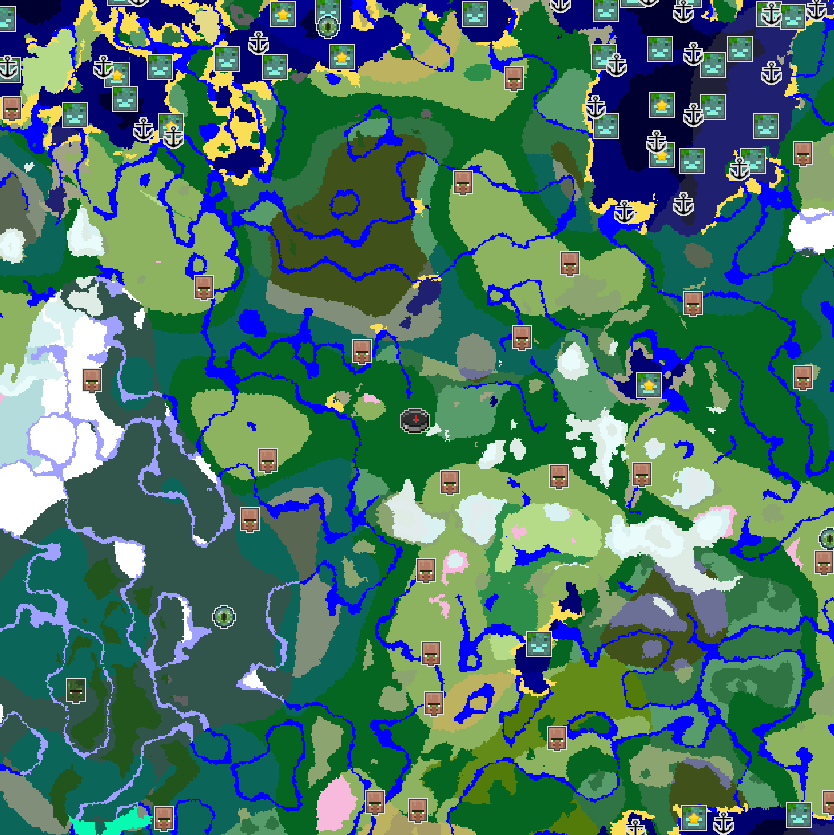
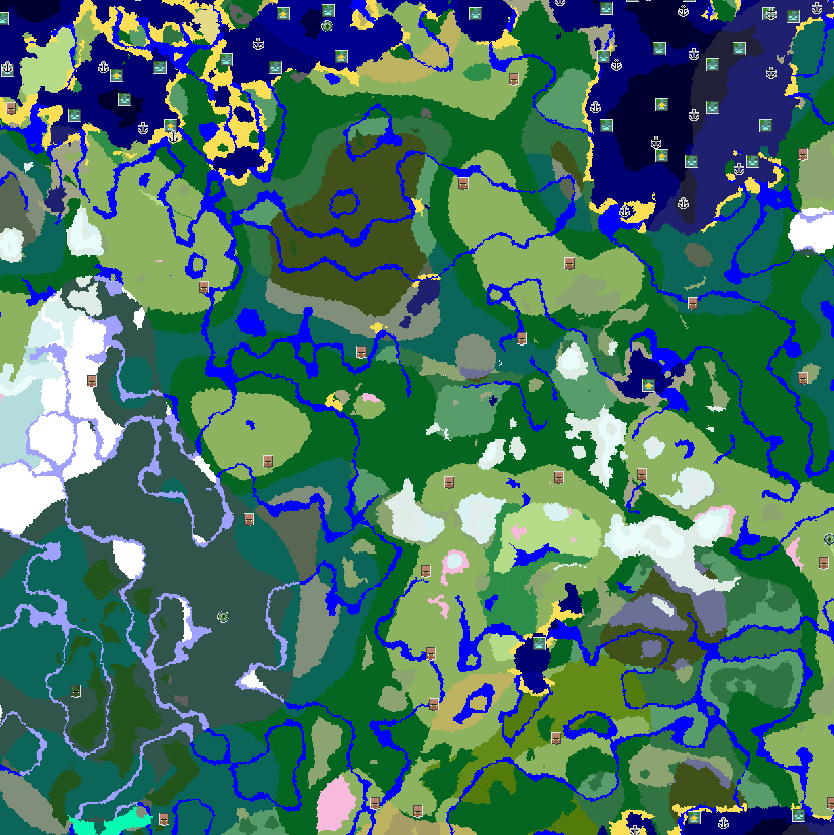
finishing the triangulator

diff --git a/minecraftTriangulateCompassVisualized/index.html b/minecraftTriangulateCompassVisualized/index.html
@@ -85,7 +85,7 @@
             width: 100%;
             margin-top: 10px;
         }
-        .median-panel {
+        .median-panel, .description-panel {
             background-color: #2d3748;
             border: 1px solid #4a5568;
             border-radius: 8px;
@@ -96,20 +96,36 @@
             box-shadow: 0 4px 8px rgba(0, 0, 0, 0.3);
             text-align: center;
         }
-        .median-panel h3 {
+        .median-panel h3, .description-panel h3 {
             color: #feebc8;
             font-size: 1.2em;
             margin-bottom: 8px;
         }
-        .median-panel p {
+        .median-panel p, .description-panel p {
             font-size: 1.1em;
             font-weight: bold;
             color: #e2e8f0;
         }
+        .toggle-button {
+            background-color: #63b3ed;
+            color: white;
+            padding: 8px 12px;
+            border-radius: 6px;
+            font-weight: bold;
+            cursor: pointer;
+            transition: background-color 0.2s;
+            margin: 5px;
+        }
+        .toggle-button.active {
+            background-color: #38a169; /* Green when active */
+        }
+        .toggle-button:hover {
+            background-color: #4299e1;
+        }
     </style>
 </head>
 <body class="bg-gray-900 text-gray-100 flex flex-col items-center p-5">
-    <h1 class="text-3xl font-bold mb-6 text-blue-400">Minecraft XZ Ray Intersection Visualizer</h1>
+    <h1 class="text-3xl font-bold mb-6 text-blue-400">Minecraft Simple XZ Triangulation</h1>
 
     <canvas id="rayCanvas" width="800" height="600" class="mb-6"></canvas>
 
@@ -127,11 +143,28 @@
                 Reset Records
             </button>
         </div>
+        <div class="button-row mt-4">
+            <button id="toggleMapButton" class="toggle-button">
+                Toggle Map: On
+            </button>
+            <button id="toggleCompassAdjustmentButton" class="toggle-button">
+                Using a Compass: On
+            </button>
+        </div>
     </div>
 
     <div id="medianPanel" class="median-panel hidden">
         <h3>Geometric Median of Intersections:</h3>
         <p id="medianCoordinates">No median calculated.</p>
+    </div>
+
+    <div class="description-panel">
+        <h3>Description:</h3>
+        <p class="text-sm text-gray-300 text-left">
+            This tool is made for triangulation based on your position and angle of view. You manually enter X Z and angle from the F3 screen or you can press F3+C and insert the result here.
+            <br><br>
+            If you're using a compass angle yourself so the compass is just between showing straight ahead and a bit to the left. Like, right on the edge of it switching from one to another, you need to be accurate with it. And make sure the "Using a Compass" button is toggled on.
+        </p>
     </div>
 
     <script>
@@ -151,7 +184,6 @@
 
         /**
          * Helper function to convert degrees to radians.
-         * Use this if your input angles are in degrees.
          * @param {number} degrees Angle in degrees.
          * @returns {number} Angle in radians.
          */
@@ -423,11 +455,16 @@
 
         const canvas = document.getElementById('rayCanvas');
         const ctx = canvas.getContext('2d');
+        // Disable image smoothing for pixelated zoom
+        ctx.imageSmoothingEnabled = false;
+
         const recordInputTextarea = document.getElementById('recordInputTextarea');
         const drawButton = document.getElementById('drawButton');
         const resetButton = document.getElementById('resetButton');
         const medianPanel = document.getElementById('medianPanel');
         const medianCoordinatesText = document.getElementById('medianCoordinates');
+        const toggleMapButton = document.getElementById('toggleMapButton');
+        const toggleCompassAdjustmentButton = document.getElementById('toggleCompassAdjustmentButton');
 
         // Global variables for canvas transformation
         let currentScale = 1;
@@ -435,10 +472,28 @@
         let currentOffsetY = 0;
         const MIN_SCALE = 0.01;
         const ZOOM_SENSITIVITY = 0.1; // How much zoom per scroll tick
+        const ANGLE_ERROR_TOLERANCE = 0.1; // Degrees of possible error in angle measurements
 
         let isDragging = false;
         let lastMouseX = 0;
         let lastMouseY = 0;
+
+        // Toggle states
+        let showMap = true; // Default to showing map
+        let useCompassAdjustment = true; // Default to using compass adjustment
+
+        // Map image setup
+        const mapImage = new Image();
+        mapImage.src = 'chunkbase_4840887614380714799.png';
+        mapImage.onerror = () => {
+            console.error("Failed to load map image. Please ensure 'chunkbase_4840887614380714799.png' is accessible.");
+            // Optionally, display a message on the canvas or in a UI element
+            // ctx.fillText('Map image failed to load.', canvas.width / 2, canvas.height / 2 + 50);
+        };
+        mapImage.onload = () => {
+            // Redraw the visualization once the map image is loaded
+            drawVisualization();
+        };
 
         // Function to transform world coordinates to canvas coordinates
         function worldToCanvas(worldX, worldZ) {
@@ -490,18 +545,18 @@
                         }
                     } else {
                         console.warn(`Skipping unrecognized line format: "${line}"`);
-                        return; // Skip this line
+                            return; // Skip this line
                     }
                 }
 
-                // Apply the 5.6 degrees adjustment to the angle
-                const adjustedAngleDegrees = angleDegrees - 5.6;
+                // Apply the 5.6 degrees adjustment to the angle, if enabled
+                const finalAngleDegrees = useCompassAdjustment ? (angleDegrees - 5.6) : angleDegrees;
 
                 currentRecords.push({
                     id: `Record ${recordIdCounter++}`, // Auto-generate ID (used internally, not displayed)
                     x: x,
                     z: z,
-                    angle: degreesToRadians(adjustedAngleDegrees) // Convert adjusted degrees to radians
+                    angle: degreesToRadians(finalAngleDegrees) // Convert adjusted degrees to radians
                 });
             });
             return currentRecords;
@@ -580,6 +635,31 @@
                 currentOffsetY = initialOffsetY;
             }
 
+            // --- Draw Map Image (under everything else) ---
+            if (showMap && mapImage.complete && mapImage.naturalWidth > 0) {
+                const mapWorldSize = 5000; // Map is 5000x5000 world units
+                const mapWorldHalf = mapWorldSize / 2;
+
+                // World coordinates of the top-left corner of the map
+                // Center is 0,0, so top-left is (-mapHalf, -mapHalf)
+                const mapWorldTopLeftX = -mapWorldHalf;
+                const mapWorldTopLeftZ = -mapWorldHalf;
+
+                const mapCanvasStart = worldToCanvas(mapWorldTopLeftX, mapWorldTopLeftZ);
+
+                // Calculate the width and height of the image on the canvas based on current scale
+                const mapCanvasWidth = mapWorldSize * currentScale;
+                const mapCanvasHeight = mapWorldSize * currentScale;
+
+                ctx.drawImage(mapImage, mapCanvasStart.x, mapCanvasStart.y, mapCanvasWidth, mapCanvasHeight);
+            } else if (showMap) {
+                // Fallback for when image is not loaded or has errors, but map is supposed to be shown
+                ctx.fillStyle = '#a0aec0';
+                ctx.font = '16px Inter';
+                ctx.textAlign = 'center';
+                ctx.fillText('Loading map...', canvas.width / 2, canvas.height / 2 + 50);
+            }
+
 
             // Draw Grid (optional, but helpful for context)
             ctx.strokeStyle = '#4a5568'; // Darker gray for grid
@@ -605,7 +685,7 @@
                 ctx.stroke();
             }
 
-            // Draw X and Z axes (positive directions) - DRAW FIRST for layering
+            // Draw X and Z axes (positive directions)
             const originCanvas = worldToCanvas(0, 0);
 
             // Draw Positive X-axis (Red)
@@ -656,6 +736,34 @@
                 ctx.strokeStyle = '#a0aec0'; // Light gray for rays
                 ctx.lineWidth = 1.5;
                 ctx.stroke(); // Solid line
+
+                // Draw angle inaccuracy triangle
+                const errorAngleRadians = degreesToRadians(ANGLE_ERROR_TOLERANCE);
+                const angleMinusError = record.angle - errorAngleRadians;
+                const anglePlusError = record.angle + errorAngleRadians;
+
+                const dxError1 = -Math.sin(angleMinusError);
+                const dzError1 = Math.cos(angleMinusError);
+                const dxError2 = -Math.sin(anglePlusError);
+                const dzError2 = Math.cos(anglePlusError);
+
+                // Extend the error rays for the same length as the main rays
+                const errorPoint1X = record.x + dxError1 * rayLength; // Use rayLength
+                const errorPoint1Z = record.z + dzError1 * rayLength; // Use rayLength
+                const errorPoint2X = record.x + dxError2 * rayLength; // Use rayLength
+                const errorPoint2Z = record.z + dzError2 * rayLength; // Use rayLength
+
+                const canvasErrorPoint1 = worldToCanvas(errorPoint1X, errorPoint1Z);
+                const canvasErrorPoint2 = worldToCanvas(errorPoint2X, errorPoint2Z);
+
+                ctx.beginPath();
+                ctx.moveTo(canvasPos.x, canvasPos.y); // Start at the record's position
+                ctx.lineTo(canvasErrorPoint1.x, canvasErrorPoint1.y);
+                ctx.lineTo(canvasErrorPoint2.x, canvasErrorPoint2.y);
+                ctx.closePath();
+                ctx.fillStyle = 'rgba(255, 255, 0, 0.1)'; // Semi-transparent yellow
+                ctx.fill();
+                // Removed ctx.strokeStyle and ctx.lineWidth for the outline
             });
 
             // Draw Intersections
@@ -718,6 +826,8 @@
         // Function to save textarea content to localStorage
         function saveInputToLocalStorage() {
             localStorage.setItem('minecraftRayVizInput', recordInputTextarea.value);
+            localStorage.setItem('minecraftRayVizShowMap', showMap);
+            localStorage.setItem('minecraftRayVizUseCompassAdjustment', useCompassAdjustment);
         }
 
         // Function to load textarea content from localStorage
@@ -727,28 +837,104 @@
                 recordInputTextarea.value = savedInput;
             } else {
                 // Set initial content if nothing is in localStorage
-                recordInputTextarea.value = `0 1 185.6
-1 0 95.6
--5 0 275.6
-0 -5 5.6
-/execute in minecraft:overworld run tp @s 380.74 -60.00 4772.29 -904.37 25.73`;
+                resetDefaultRecords();
+            }
+
+            const savedShowMap = localStorage.getItem('minecraftRayVizShowMap');
+            if (savedShowMap !== null) {
+                showMap = (savedShowMap === 'true');
+            }
+            updateToggleButtonState(toggleMapButton, showMap, 'Map');
+
+            const savedUseCompassAdjustment = localStorage.getItem('minecraftRayVizUseCompassAdjustment');
+            if (savedUseCompassAdjustment !== null) {
+                useCompassAdjustment = (savedUseCompassAdjustment === 'true');
+            }
+            updateToggleButtonState(toggleCompassAdjustmentButton, useCompassAdjustment, 'Using a Compass');
+        }
+
+        // Helper to get Minecraft angle (degrees) from player (px, pz) to target (tx, tz)
+        const getAngleToTarget = (px, pz, tx, tz) => {
+            const vx = tx - px; // vector X component
+            const vz = tz - pz; // vector Z component
+            // Angle in radians clockwise from positive Z-axis
+            let angleRadians = Math.atan2(-vx, vz); // -vx for sine, vz for cosine
+            let angleDegrees = angleRadians * 180 / Math.PI;
+            // Normalize to 0-360 range
+            if (angleDegrees < 0) {
+                angleDegrees += 360;
+            }
+            return angleDegrees;
+        };
+
+        // Function to set default records with randomization
+        function resetDefaultRecords() {
+            const defaultDistance = 100; // Roughly 100 units from center
+            // Randomization within +/- 2 degrees
+            const randomAngleOffset = () => (Math.random() - 0.5) * 4;
+
+            // Calculate angles for each point to look at (0,0)
+            // The 5.6 adjustment needs to be added to the calculated angle to get the input string value
+            // because the parsing function SUBTRACTS 5.6.
+
+            const angle0_100_to_origin = getAngleToTarget(0, defaultDistance, 0, 0);
+            const angle100_0_to_origin = getAngleToTarget(defaultDistance, 0, 0, 0);
+            const angle0_minus100_to_origin = getAngleToTarget(0, -defaultDistance, 0, 0);
+            const angle_minus100_0_to_origin = getAngleToTarget(-defaultDistance, 0, 0, 0);
+
+            const x_tp = defaultDistance * 0.7;
+            const z_tp = defaultDistance * 0.7;
+            const angleTp_to_origin = getAngleToTarget(x_tp, z_tp, 0, 0);
+
+
+            recordInputTextarea.value = `0 ${defaultDistance} ${(angle0_100_to_origin + randomAngleOffset() + 5.6).toFixed(2)}
+${defaultDistance} 0 ${(angle100_0_to_origin + randomAngleOffset() + 5.6).toFixed(2)}
+0 ${-defaultDistance} ${(angle0_minus100_to_origin + randomAngleOffset() + 5.6).toFixed(2)}
+${-defaultDistance} 0 ${(angle_minus100_0_to_origin + randomAngleOffset() + 5.6).toFixed(2)}
+/execute in minecraft:overworld run tp @s ${x_tp.toFixed(2)} -60.00 ${z_tp.toFixed(2)} ${(angleTp_to_origin + randomAngleOffset() + 5.6).toFixed(2)} 25.73`;
+        }
+
+        // Function to update button text and class
+        function updateToggleButtonState(button, isActive, label) {
+            button.textContent = `${label}: ${isActive ? 'On' : 'Off'}`;
+            if (isActive) {
+                button.classList.add('active');
+            } else {
+                button.classList.remove('active');
             }
         }
 
         drawButton.addEventListener('click', drawVisualization);
         resetButton.addEventListener('click', () => {
-            recordInputTextarea.value = `0 1 185.6
-1 0 95.6
--5 0 275.6
-0 -5 5.6
-/execute in minecraft:overworld run tp @s 380.74 -60.00 4772.29 -904.37 25.73`; // Added new format example
-            saveInputToLocalStorage(); // Save the reset value
+            resetDefaultRecords(); // Call the new function to set defaults
+            // Reset toggles to default (On) when resetting records
+            showMap = true;
+            useCompassAdjustment = true;
+            updateToggleButtonState(toggleMapButton, showMap, 'Map');
+            updateToggleButtonState(toggleCompassAdjustmentButton, useCompassAdjustment, 'Using a Compass');
+
+            saveInputToLocalStorage(); // Save the reset values
             // Reset zoom/pan when resetting records
             currentScale = 1;
             currentOffsetX = 0;
             currentOffsetY = 0;
             drawVisualization();
         });
+
+        toggleMapButton.addEventListener('click', () => {
+            showMap = !showMap;
+            updateToggleButtonState(toggleMapButton, showMap, 'Map');
+            saveInputToLocalStorage();
+            drawVisualization();
+        });
+
+        toggleCompassAdjustmentButton.addEventListener('click', () => {
+            useCompassAdjustment = !useCompassAdjustment;
+            updateToggleButtonState(toggleCompassAdjustmentButton, useCompassAdjustment, 'Using a Compass');
+            saveInputToLocalStorage();
+            drawVisualization(); // Redraw to apply/remove adjustment
+        });
+
 
         // Add event listener to save input on every change
         recordInputTextarea.addEventListener('input', saveInputToLocalStorage);
@@ -821,7 +1007,7 @@
 
         // Draw on window load
         window.onload = () => {
-            loadInputFromLocalStorage(); // Load saved input
+            loadInputFromLocalStorage(); // Load saved input and toggle states
             drawVisualization();
         };
 
